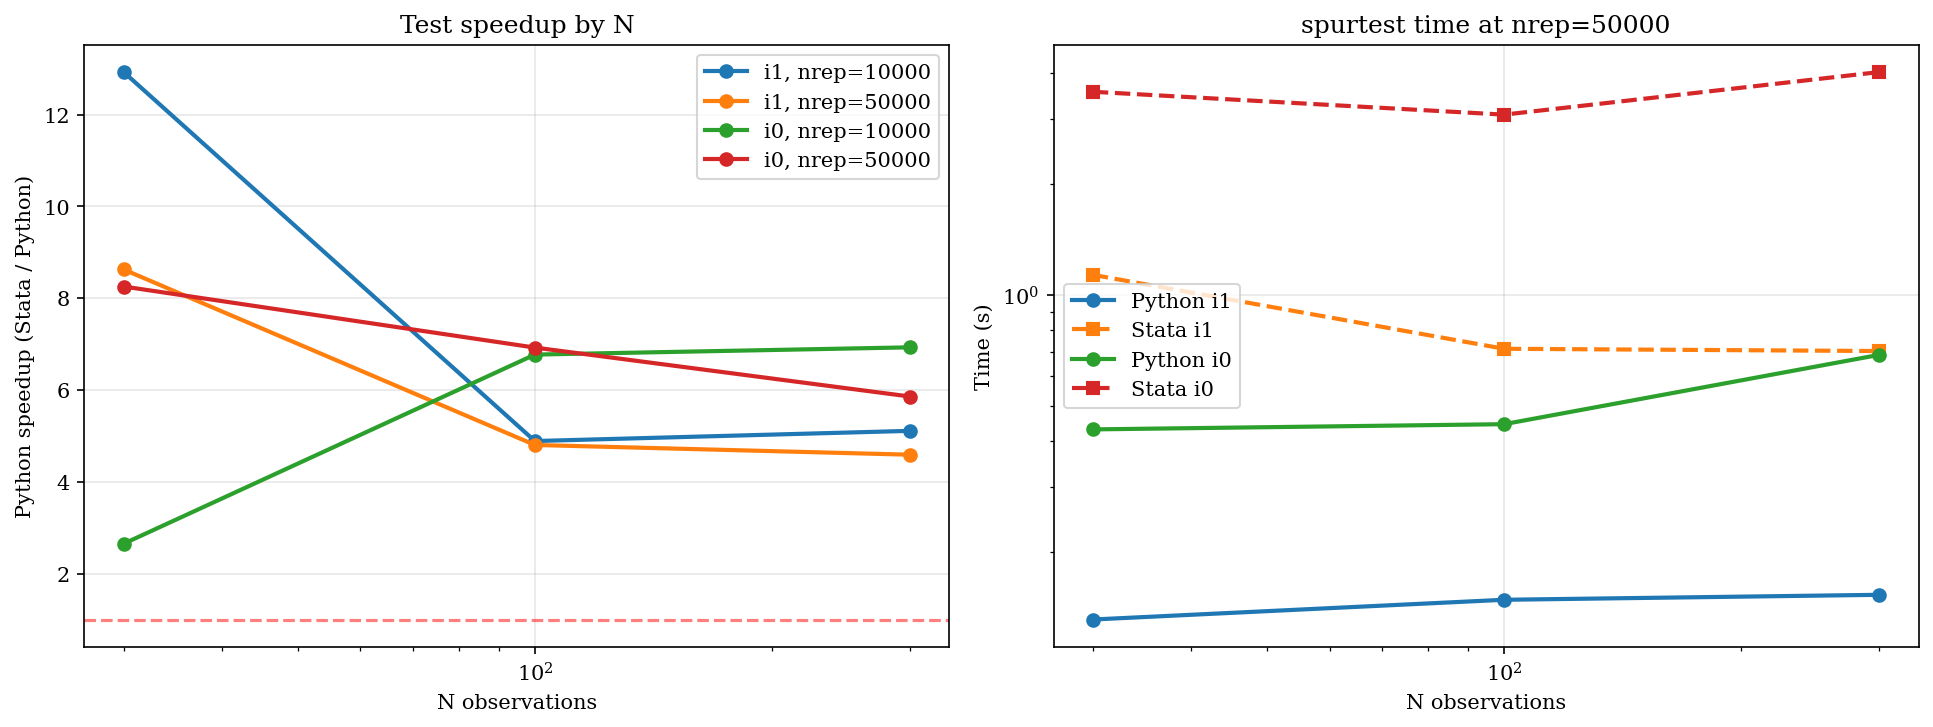
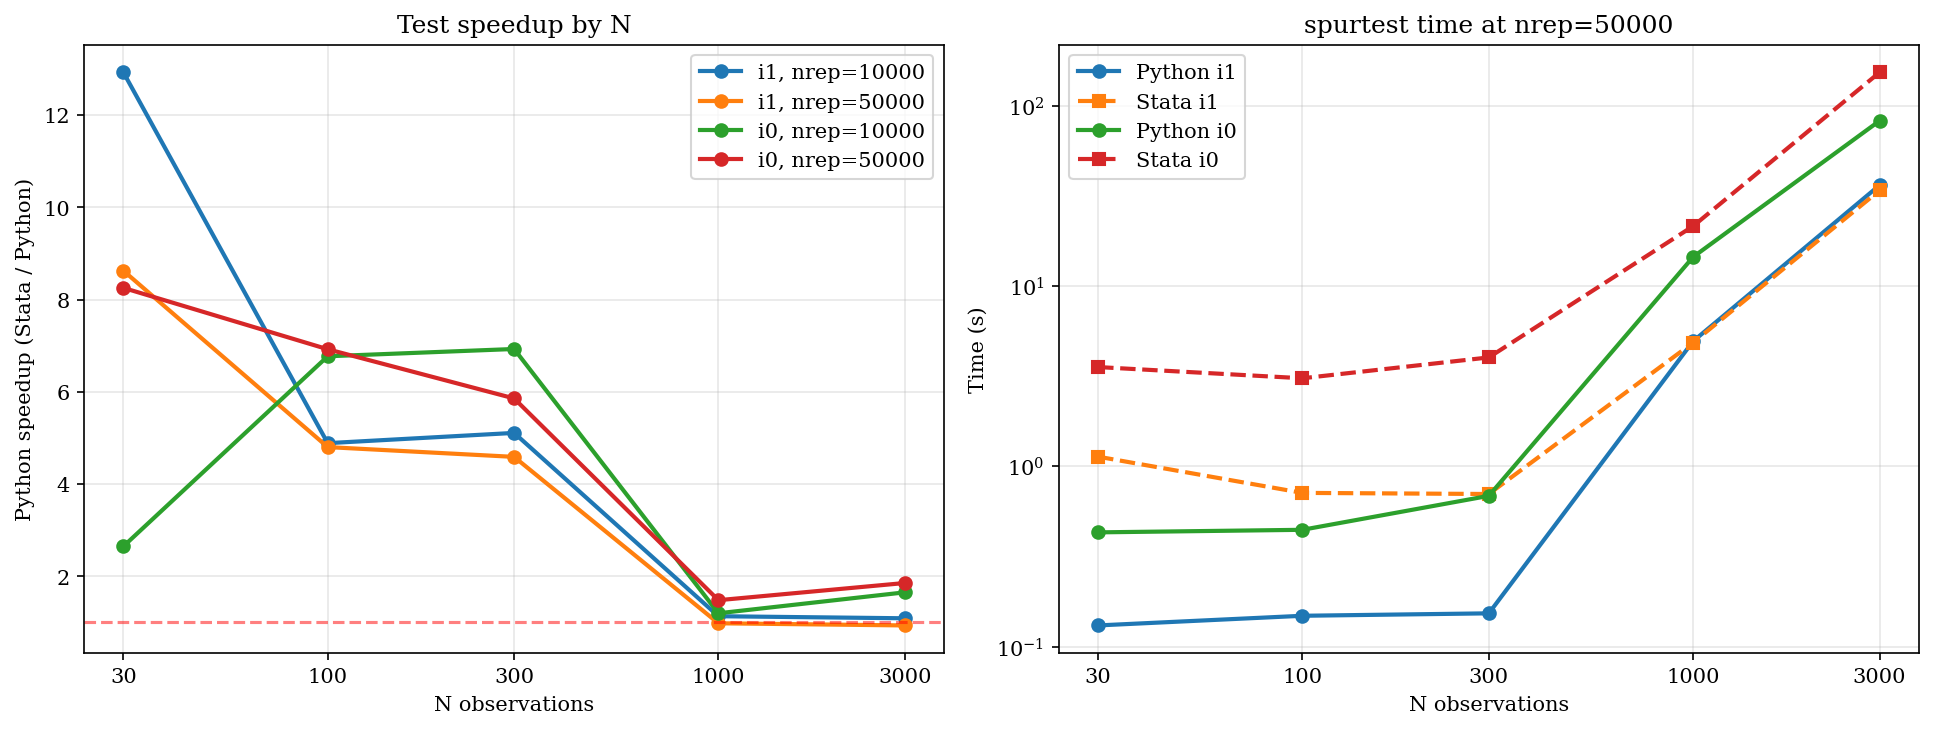
Extend spurtest benchmark to N=1000, 3000; label log-scale ticks
- Add explicit log-axis tick labels (30, 100, 300, 1000, 3000)
  so the chart isn't just showing '10^2'
- Match N range to the transformation benchmark
- Update README to be honest about the speedup narrowing at large N:
  5-13x at N<=300, ~1-2x at N>=1000 (eigendecomposition dominates)

diff --git a/plot_speed_comparison.py b/plot_speed_comparison.py
@@ -109,6 +109,9 @@ ax.set_ylabel('Python speedup (Stata / Python)')
 ax.set_title('Test speedup by N')
 ax.legend()
 ax.set_xscale('log')
+ax.set_xticks(ns)
+ax.set_xticklabels([str(n) for n in ns])
+ax.minorticks_off()
 
 ax = axes[1]
 # Direct timing comparison
@@ -126,6 +129,9 @@ ax.set_title('spurtest time at nrep=50000')
 ax.legend()
 ax.set_xscale('log')
 ax.set_yscale('log')
+ax.set_xticks(ns)
+ax.set_xticklabels([str(n) for n in ns])
+ax.minorticks_off()
 
 plt.tight_layout()
 plt.savefig(FIG_DIR / 'speed_tests.png', dpi=150, bbox_inches='tight')

diff --git a/README.md b/README.md
@@ -165,11 +165,11 @@ Every reported digit matches MW's published values.
 
 Python vs Stata wall-clock benchmarks on identical synthetic data, varying N (observations) and `nrep` (Monte Carlo draws).
 
-### Diagnostic tests — the biggest Python win
+### Diagnostic tests — big Python win at small/medium N
 
 ![spurtest speedup](./figures/speed_tests.png)
 
-`spurtest` is consistently **5–13× faster** in Python. The dominant cost is vectorized Monte Carlo arithmetic, which NumPy handles natively.
+At small-to-medium N (≤ 300), `spurtest` runs **5–13× faster** in Python — the dominant cost is vectorized Monte Carlo arithmetic, which NumPy handles natively. At N ≥ 1000, the O(N³) eigendecomposition starts to dominate and the two languages converge (Python retains a modest 1–2× edge on average, occasionally losing to Stata's Mata on the i1 test).
 
 ### Transformations — mixed picture
 
@@ -177,14 +177,14 @@ Python vs Stata wall-clock benchmarks on identical synthetic data, varying N (ob
 
 For small samples, Python crushes Stata (up to **1000×** for `nn` at N=100, largely due to Stata's per-command overhead). For LBM-GLS at large N, the two are roughly at parity — Stata's Mata is well-tuned for eigendecomposition.
 
-| Function | Median Python Speedup |
-|----------|-----------------------|
-| `spurtest i1` | 5.0× |
-| `spurtest i0` | 6.8× |
+| Function | Median Python Speedup (N ∈ {100, 300, 1000, 3000}) |
+|----------|---------------------------------------------------|
+| `spurtest i1` | 4.7× |
+| `spurtest i0` | 4.3× |
 | `spurtransform nn` | 4.8× |
 | `spurtransform iso` | 5.6× |
 | `spurtransform lbmgls` | 1.7× |
-| `spurhalflife` | ~1.5× |
+| `spurhalflife` | ~1.7× |
 
 See [`report.pdf`](./report.pdf) §7 for the full benchmark methodology and detailed tables.
 
